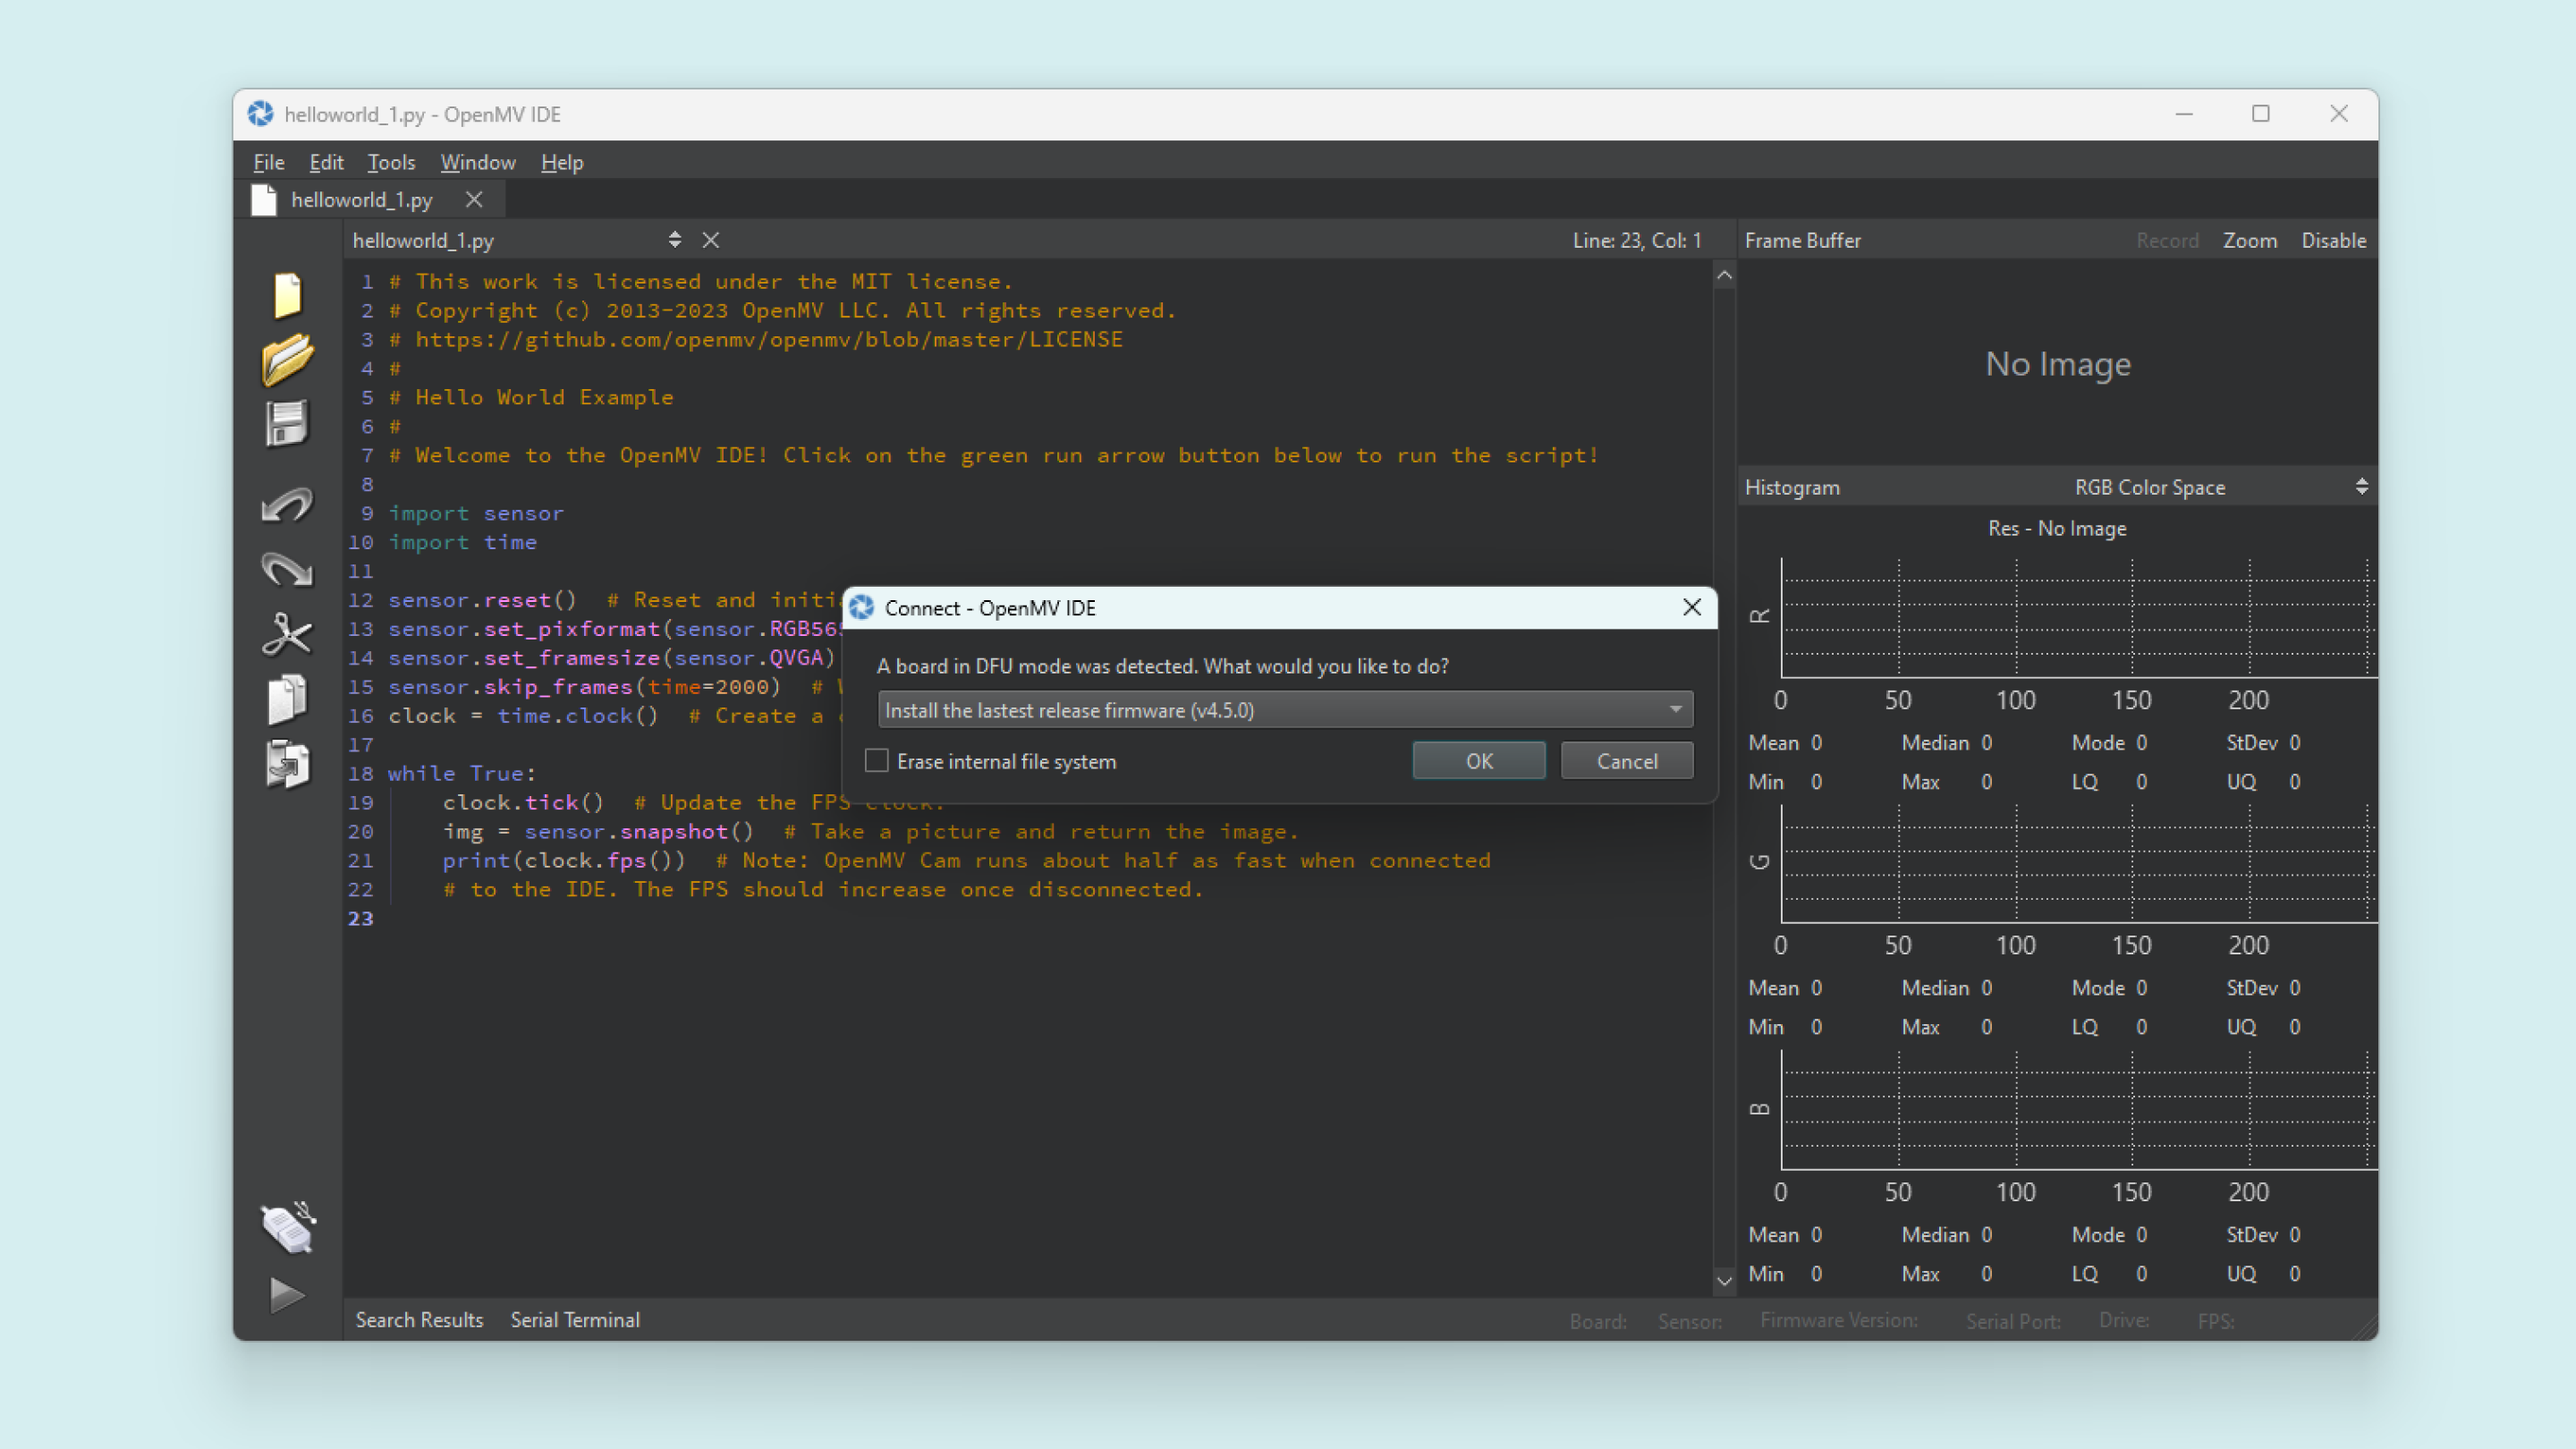
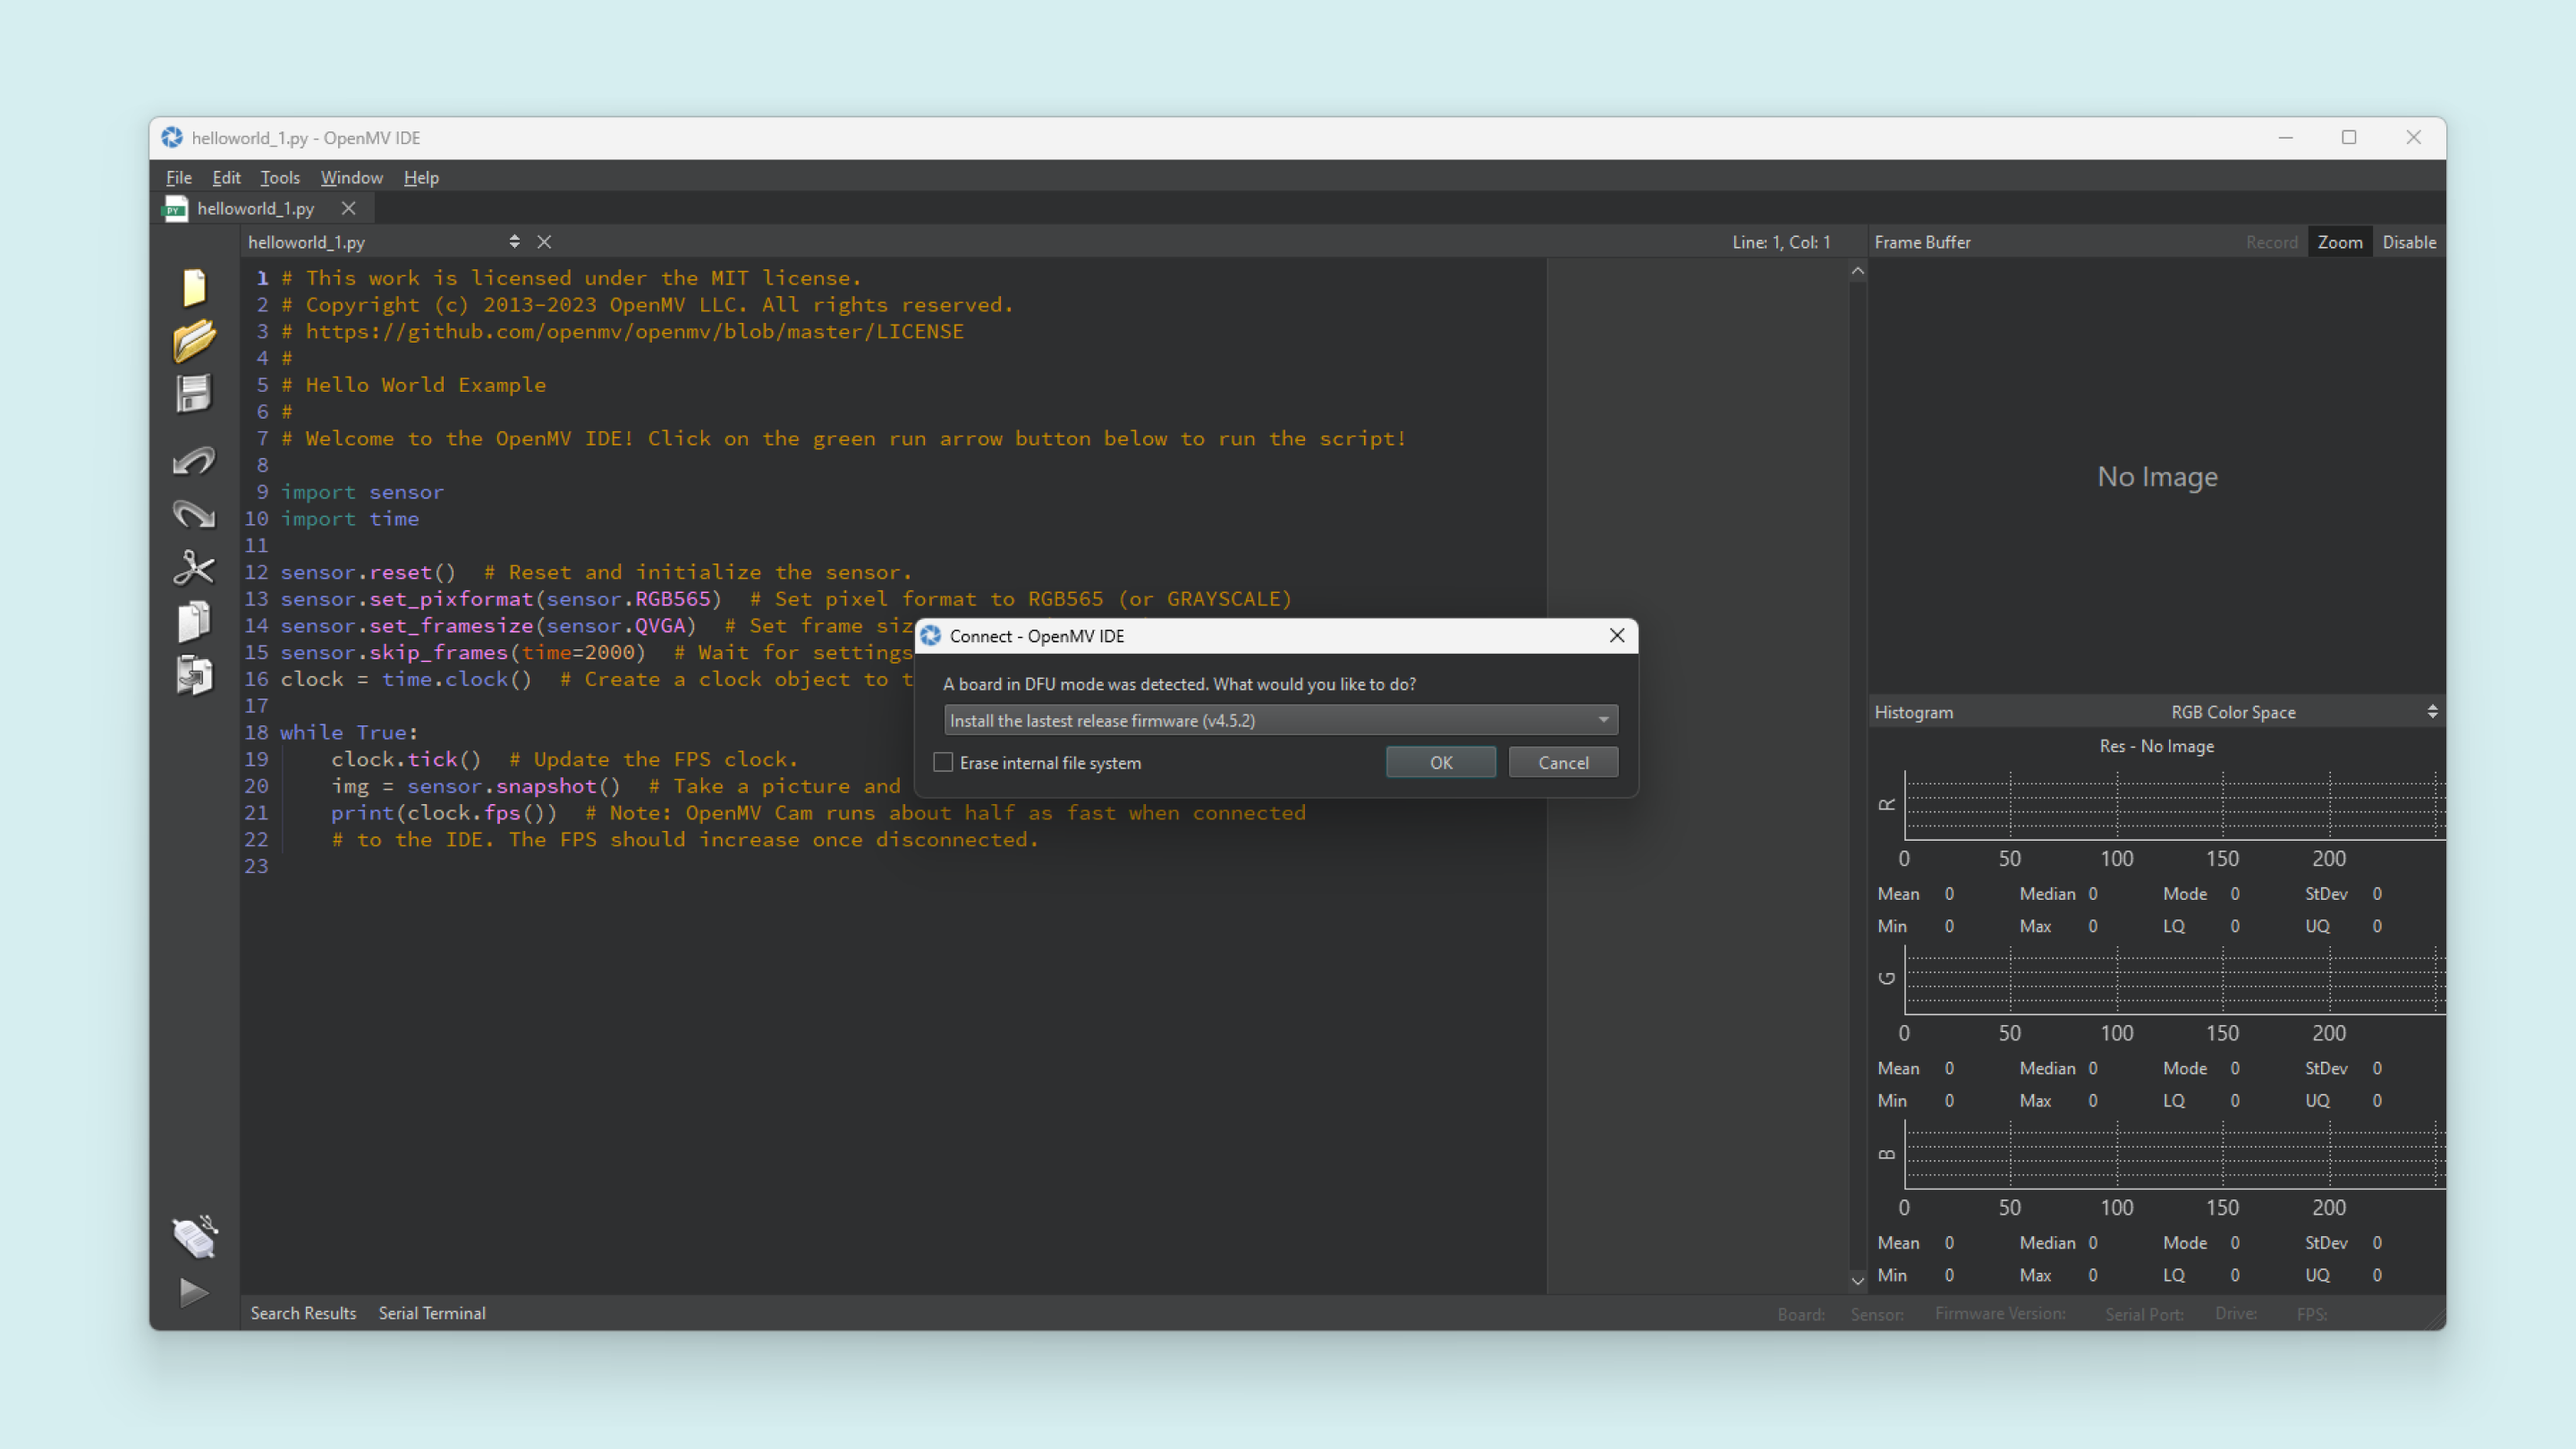
Hello World

diff --git a/content/hardware/04.pro/shields/portenta-vision-shield/tutorials/user-manual/content.md b/content/hardware/04.pro/shields/portenta-vision-shield/tutorials/user-manual/content.md
@@ -126,3 +126,71 @@ If you overwrite the __main.py__ script on your Portenta H7, then it will run wh
 ⚪ **Blinking White:** Your Portenta H7 firmware is panicking because of a hardware failure. Please check that your Vision Shield's camera module is installed securely.
 
 ***If you tap the Portenta H7 reset button once, the board resets. If you tap it twice, the board enters Device Firmware Upgrade (DFU) mode and its green LED starts blinking and fading.***
+
+### Pinout
+
+![Vision Shield simple pinout](assets/ethernet-pinout.png)
+
+The full pinout is available and downloadable as PDF from the link below:
+
+- [Vision Shield full pinout](https://docs.arduino.cc/resources/pinouts/ABX00051-full-pinout.pdf)
+
+### Datasheet
+
+The complete datasheet is available and downloadable as PDF from the link below:
+
+- [Vision Shield datasheet](https://docs.arduino.cc/resources/datasheets/ASX00021-ASX00026-datasheet.pdf)
+
+### Schematics
+
+The complete schematics are available and downloadable as PDF from the links below:
+
+- [Vision Shield - Ethernet schematics](https://docs.arduino.cc/resources/schematics/ASX00021-schematics.pdf)
+- [Vision Shield - LoRa® schematics](https://docs.arduino.cc/resources/schematics/ASX00026-schematics.pdf)
+
+### STEP Files
+
+The complete STEP files are available and downloadable from the link below:
+
+- [Vision Shield STEP files](https://docs.arduino.cc/static/c1c3c72a51d20228fe415ac8717615f6/visionShields-step.zip)
+
+## First Use
+
+### Hello World Example
+
+Working with camera modules, the `Hello World` classic example is not an LED blink but the simplest sketch to capture images. We will use this example to verify the board's connection to the IDEs and that the Vision Shield itself is working as expected.
+
+The following example script can be found on **File > Examples > HelloWorld > helloworld.py** in the OpenMV IDE.
+
+```python
+import sensor
+import time
+
+sensor.reset()  # Reset and initialize the sensor.
+sensor.set_pixformat(sensor.GRAYSCALE)  # Set pixel format to RGB565 (or GRAYSCALE)
+sensor.set_framesize(sensor.QVGA)  # Set frame size to QVGA (320x240)
+sensor.skip_frames(time=2000)  # Wait for settings take effect.
+clock = time.clock()  # Create a clock object to track the FPS.
+
+while True:
+    clock.tick()  # Update the FPS clock.
+    img = sensor.snapshot()  # Take a picture and return the image.
+    print(clock.fps())  # Note: OpenMV Cam runs about half as fast when connected
+    # to the IDE. The FPS should increase once disconnected.
+```
+
+![Camera streaming demo](assets/helloworld.gif)
+
+From the above example script, we can highlight the main functions:
+
+- `sensor.set_pixformat(<Sensor>)` lets you set the pixel format for the camera sensor. The Vision Shield is compatible with these: `sensor.GRAYSCALE`, and `sensor.BAYER`. 
+
+  To define the pixel format to any of the supported ones, just add it to the `set_pixformat` function argument.
+
+- `sensor.set_framesize(<Resolution>)` lets you define the image frame size in terms of pixels. [Here](https://docs.openmv.io/library/omv.sensor.html#sensor.set_framesize) you can find all the different options.
+
+  To leverage full sensor resolution with the Vision Shield camera module `HM01B0`, use `sensor.B320X320`.
+
+  ![Different resolutions examples](assets/resolutions.png)
+
+- `sensor.snapshot()` lets you take a picture and return the image so you can save it, stream it or process it.
